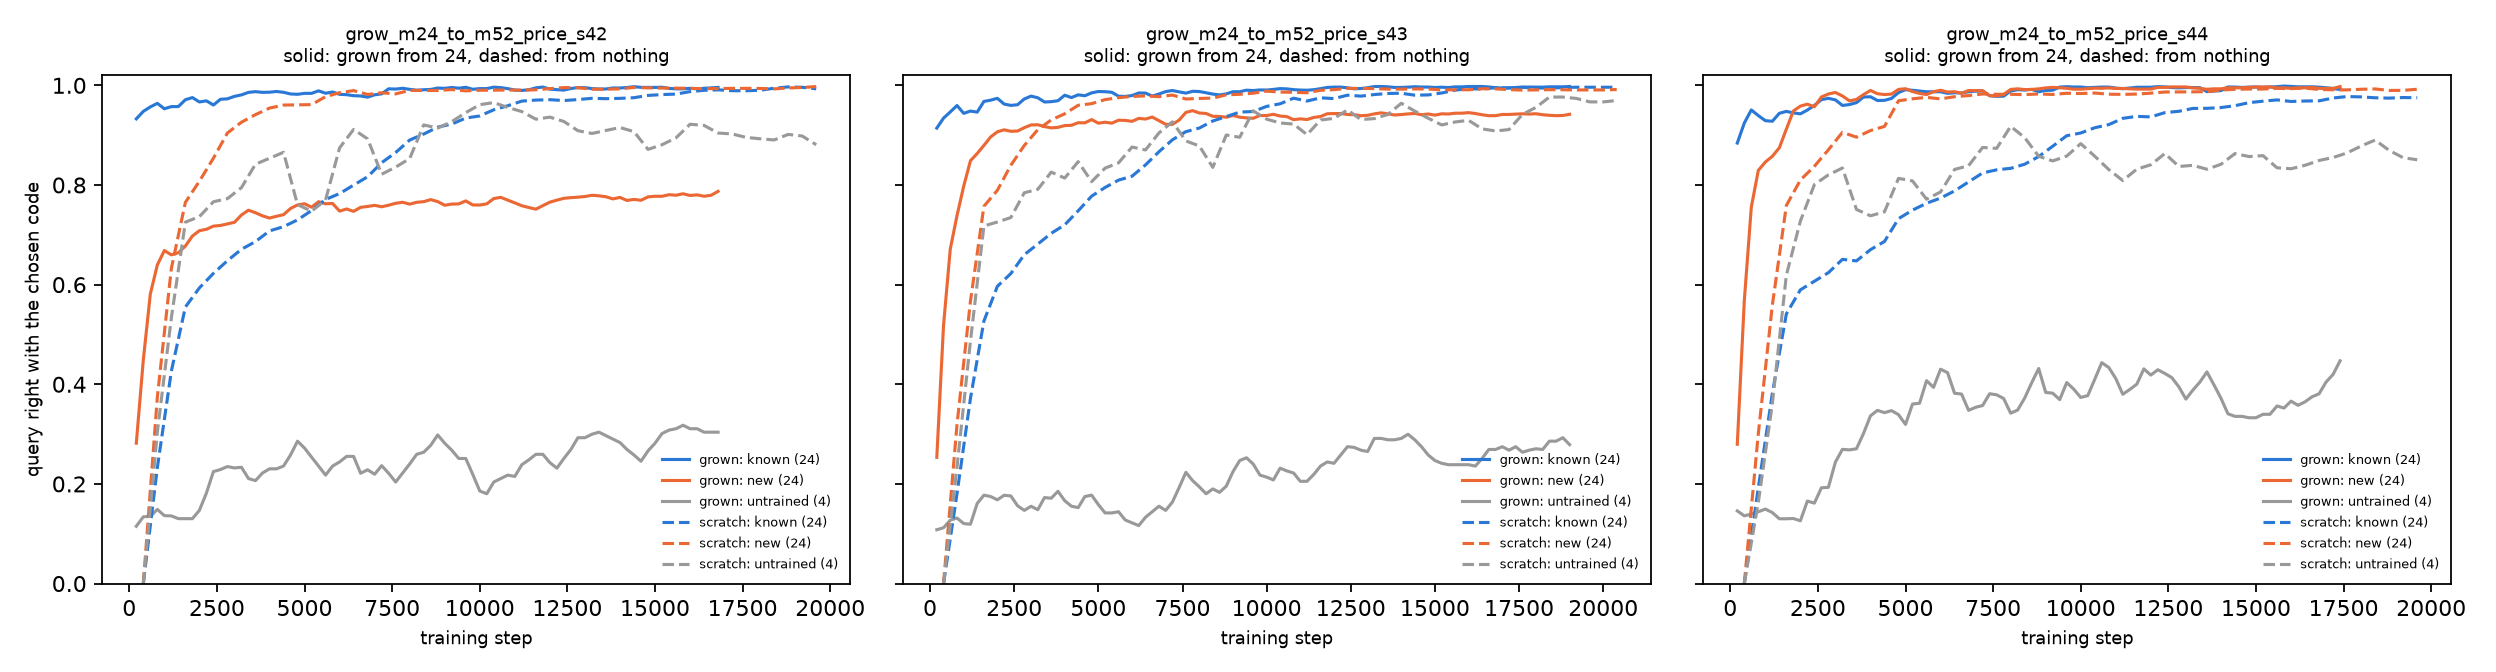
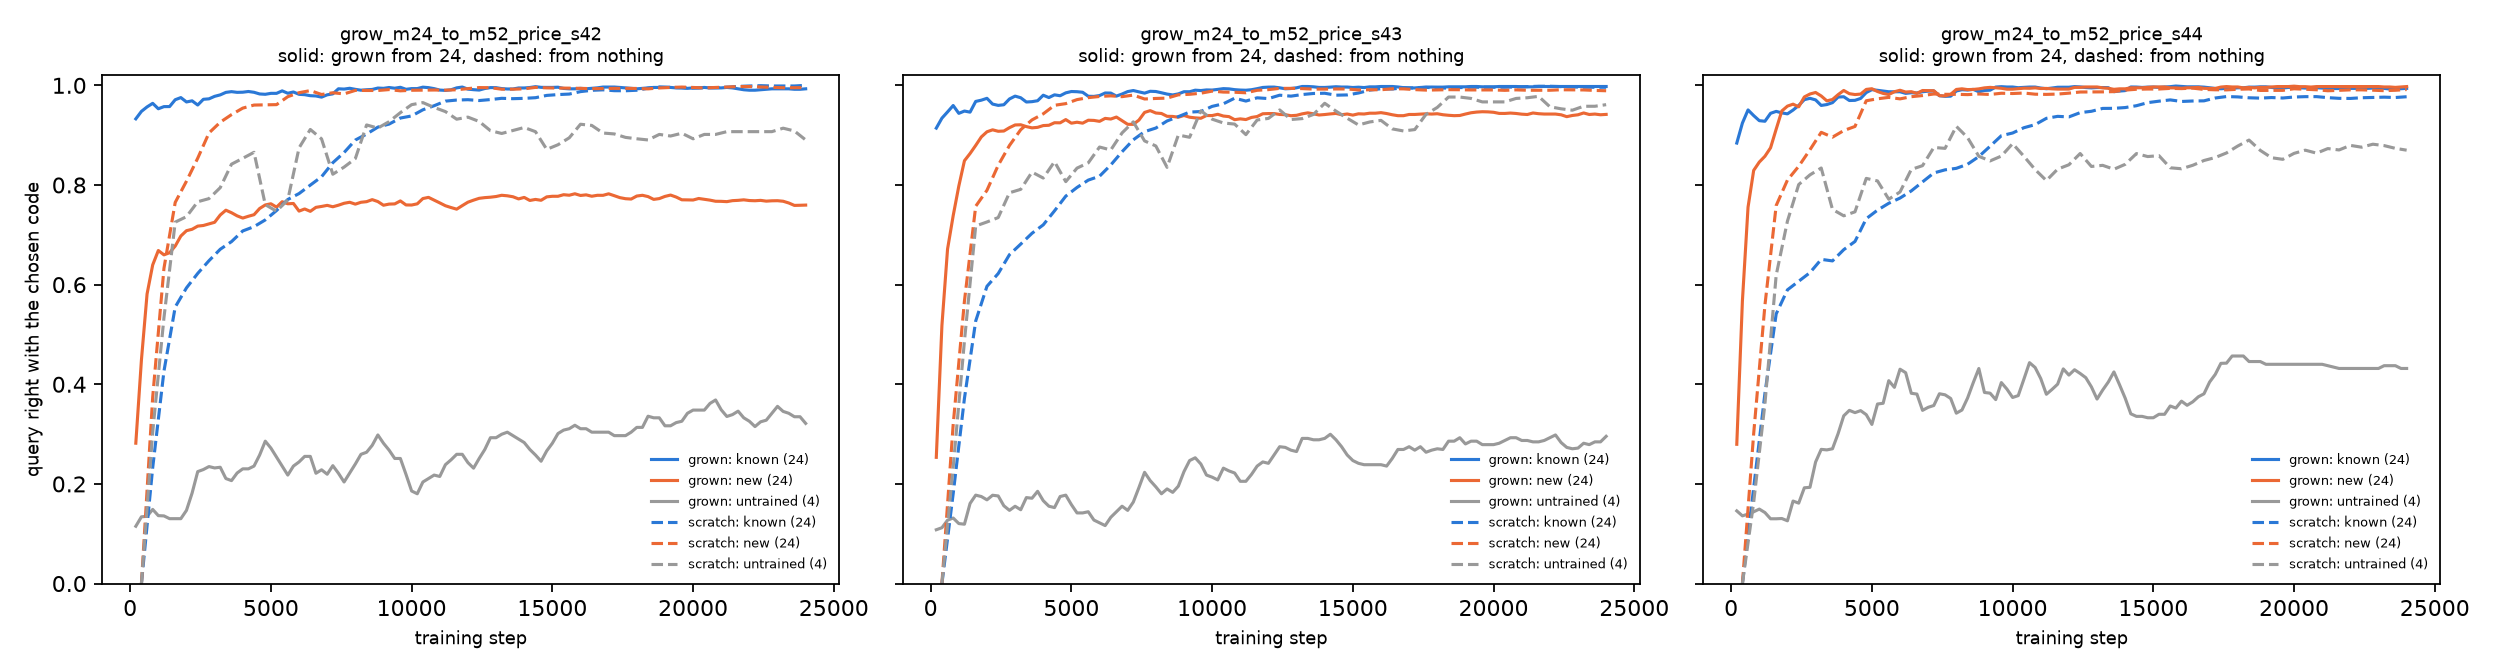
Rounds at three seeds, never-sleeping control, large-world rounds, final growth and price values

diff --git a/docs/reports/2026-11-27-autoresearch.md b/docs/reports/2026-11-27-autoresearch.md
@@ -75,7 +75,7 @@ hard EM은 과제마다 재현 오차가 가장 작은 code 하나를 고르고,
 
 가격을 오래 두는 것은 어려운 seed를 돕지 못했다. 적합도 가격은 두 seed를 모두 올렸지만 좋은 seed의 96%에는 아직 못 미친다. 학습 중간값이고 끝나면 고친다.
 
-환경이 커지면 가격은 더 잘 통했다. 52개 환경에서 기본 가격은 세 seed 모두 넷을 98에서 100%로 갈랐고 나머지도 98에서 99%다. 가격이 없으면 같은 seed가 98%, 26%, 31%다. 24개 환경에서 가격이 실패한 seed 45와 46은 52개 환경에서 돌리지 않았으므로, 큰 환경이라서 풀린 것인지 seed 탓인지는 가르지 못한다.
+환경이 커지면 가격은 더 잘 통했다. 52개 환경에서 기본 가격은 세 seed 모두 넷을 최종 99%, 99%, 98%로 갈랐고 나머지도 98에서 99%다. 가격이 없으면 같은 seed의 최종이 98%, 39%, 38%다. 24개 환경에서 가격이 실패한 seed 45와 46은 52개 환경에서 돌리지 않았으므로, 큰 환경이라서 풀린 것인지 seed 탓인지는 가르지 못한다.
 
 비교로, 계산을 줄이려고 E-step 후보를 16개로 제한한 hard EM도 돌렸다. 한 스텝이 24개 환경에서 2.3배, 64개 환경에서 5.6배 빨라지지만, 세 seed 모두 넷이 36에서 37%로 굳었다. 원래 갈라지던 seed 42까지 굳었다. 죽은 code가 후보에 거의 들지 못해 보너스가 작동하지 않은 것으로 본다. 2.1절의 관찰, 곧 seed 42가 죽은 code의 보너스 덕에 갈라졌다는 것과 맞는다.
 
@@ -107,13 +107,13 @@ hard EM은 과제마다 재현 오차가 가장 작은 code 하나를 고르고,
 | 44, 3,200 | 97%, 98%, 92% | 65%, 92%, 10% |
 | 44, 10,000 | 99%, 99%, 97% | 92%, 99%, 77% |
 
-끝 무렵의 값도 적는다. 이어 배운 run은 21,000에서 23,000스텝, 처음부터 run은 24,000스텝 근처다.
+24,000스텝을 마친 최종값이다.
 
 | seed | 이어 배운 run: 새 24개, 학습에 없는 4칸 이동, 새것이 80%에 닿는 스텝의 중앙값 | 처음부터 run: 같은 셋 |
 |---|---|---|
-| 42 | 79%, 30%, 800스텝 | 100%, 88%, 1,400스텝 |
-| 43 | 94%, 28%, 600스텝 | 99%, 97%, 1,600스텝 |
-| 44 | 100%, 45%, 700스텝 | 99%, 85%, 1,600스텝 |
+| 42 | 76%, 32%, 800스텝 | 100%, 89%, 1,400스텝 |
+| 43 | 94%, 30%, 600스텝 | 99%, 96%, 1,600스텝 |
+| 44 | 100%, 43%, 700스텝 | 99%, 87%, 1,600스텝 |
 
 새것을 배우는 초반 속도는 이어 배운 쪽이 두 배쯤 빠르다. 하지만 끝 성능은 seed 42와 43에서 처음부터 배운 쪽이 높고, 학습에 없던 4칸 이동으로의 일반화는 세 seed 모두 처음부터 배운 쪽이 훨씬 높다. 아래에 그 이유를 적는다.
 
@@ -276,9 +276,40 @@ executor가 함수에 가까워지자 긴 program의 상한도 올랐다. 24개 
 
 기억이 고르는 것의 값은 대조 run으로 쟀다. 52개 환경 학습 파일에서 무작위로 뽑은 과제 435개로 같은 잠을 자면, 1,000스텝에 계산할 수 있는 새것 64%, 새 계산이 필요한 새것 51%다. 기억이 고른 435개로는 81%와 56%였다. 무작위 435개의 절반쯤은 이미 아는 primitive의 과제라 배울 것이 없다. 검증에 실패한 과제만 담는다는 규칙이 같은 과제 수에서 더 많이 배우게 한다.
 
-구간마다 과제가 다르므로, 잠의 몫은 한 번도 자지 않은 모델이 같은 과제를 빠른 기억만으로 받은 값과 견줘야 한다. 그림의 회색 선이다. 과제 801에서 1,600에서 자지 않은 모델은 새 primitive를 평균 62% 맞히고 새 code 91개를 만든다. 한 번 잔 모델은 같은 과제에서 79%에 43개다. 같은 과제에서 잠의 몫이 17점이다. 자지 않아도 기억이 쌓이며 51%에서 62%로 오르기는 하지만, 새 계산이 필요한 개념이 막혀 있어 거기서 멈춘다.
+구간마다 과제가 다르므로, 잠의 몫은 한 번도 자지 않은 모델이 같은 과제를 빠른 기억만으로 받은 값과 견줘야 한다. 그림의 회색 선이다.
 
-같은 바퀴를 seed 42와 44의 모델로, 그리고 큰 물체 세계에서도 돌리고 있다.
+| 과제 구간 | 자지 않은 모델, 새 primitive | 잠을 사이에 넣은 모델 |
+|---|---|---|
+| 1에서 800 | 51% | 51%, 같은 모델 |
+| 801에서 1,600 | 62% | 79% |
+| 1,601에서 2,400 | 63% | 86% |
+
+자지 않아도 기억이 쌓이며 51%에서 62%로 오르기는 한다. 하지만 거기서 멈춘다. 새 계산이 필요한 개념이 막혀 있기 때문이다. 새 code는 331개까지 계속 늘어난다. 같은 과제에서 잠의 몫은 17점과 23점이다.
+
+한 바퀴를 seed 셋으로 확인했다. 24개 환경 가격 모델 seed 42, 43, 44가 같은 흐름을 받고, 기억 code를 codebook 줄로 넣어 한 번 잔 뒤 다음 800개를 받는다.
+
+| seed | 자기 전, 새 primitive | 한 번 잔 뒤 | 새 code, 전과 후 |
+|---|---|---|---|
+| 42 | 57% | 83% | 135개, 49개 |
+| 43 | 51% | 82% | 150개, 43개 |
+| 44 | 43% | 82% | 165개, 56개 |
+| 평균 | 50.5% | 82.4% | 150개, 49개 |
+
+세 seed 평균으로 계산할 수 있는 새것이 65%에서 93%, 새 계산이 필요한 새것이 24%에서 57%, 아는 24개가 99.8%에서 99.7%다. 자기 전 값은 seed마다 14점 벌어지는데 잔 뒤에는 1점 안에 모인다.
+
+### 8.6 큰 물체 세계에서의 같은 바퀴
+
+6절의 큰 물체 세계는 새 primitive가 아니라 물체의 크기 분포가 다른 세계다. 여기서도 같은 규칙을 그대로 돌렸다. 얼린 24개 환경 모델이 큰 물체 과제를 400개씩 받고, 자기 code로 재현되지 않은 과제를 모아 잔다. primitive가 같으므로 codebook은 키우지 않는다. 큰 물체 평가 파일의 한 단계 과제가 1,088개뿐이라 구간을 400개로 잡았다.
+
+| | 큰 물체 과제 | 원래 세계 |
+|---|---|---|
+| 자기 전, 과제 1에서 400 | 48% | |
+| 첫 잠 뒤 모델이 고른 code로, 처음 보는 과제 | 76% | 99% |
+| 한 번 잔 뒤, 과제 401에서 800 | 70% | |
+| 6절의 적응: 무작위 과제 256개와 재생 | 72% | 98% |
+| 6절의 적응: 무작위 과제 1,024개 | 최고 76% | 88% |
+
+첫 깨어 있는 동안 기억에 들어간 과제는 217개다. 이 217개와 원래 세계 재생으로 자면 처음 보는 큰 물체 과제를 76% 맞히고 원래 세계는 99%로 지킨다. 6절에서 무작위 과제 256개로 얻은 72%보다 높고, 1,024개로 얻은 최고값과 같은데 원래 세계는 잃지 않는다. 다시 깨면 다음 400개에서 70%로, 자기 전의 48%에서 22점 오른다. 이 세계에서는 빠른 기억의 새 code가 거의 도움이 되지 않는다. 8.1절에서 본 대로 큰 물체의 실패는 code로 고칠 수 없기 때문이다. 그래도 바퀴는 돈다. 깨어 있는 동안 빠른 기억이 하는 일이 두 가지이기 때문이다. 하나는 그 자리에서 새 code로 답하는 것이고, 다른 하나는 모델이 못 푸는 과제를 골라 잠에 넘기는 것이다. 큰 물체 세계에서는 둘째 일만으로 이득이 난다. 두 번째 바퀴가 돌고 있다.
 
 ## 9. 계산 효율
 

diff --git a/docs/research-log.md b/docs/research-log.md
@@ -357,3 +357,11 @@
 - 19:30 무작위 과제 435개로 잔 대조 run의 최종. 원래 24개 99%, 계산할 수 있는 새것 68%, 새 계산이 필요한 새것 46%, 4칸 이동 18%다. 기억이 고른 435개로 잔 무작위 줄 출발 run은 99%, 81%, 58%, 77%다.
 - 19:35 넷째 깨기가 끝났다. 과제 2,401에서 3,200, 새 primitive 정답률이 구간마다 89, 90, 88, 95, 78, 90, 88, 94%, 전체 89%, 새 code 23개다. 계산할 수 있는 새것 91%, 새 계산이 필요한 새것 85%, 4칸 이동 91%, 아는 것 100%다. 네 구간의 새 primitive 전체가 51%, 79%, 86%, 89%로 오르며 완만해진다.
 - 19:35 같은 바퀴를 큰 물체 세계에서 돌린다. 24개 환경 가격 seed 43 모델이 큰 물체 평가 파일의 한 단계 과제를 400개씩 받는다. 이 파일의 한 단계 과제는 1,088개뿐이라 구간을 400개로 잡았다. 같은 primitive라 codebook은 키우지 않는다. 순서는 runs/queue/cycle_large.sh에 있다.
+- 20:04 자지 않은 모델의 과제 2,400개 흐름이 끝났다. 새 primitive 정답률이 과제 1에서 800 평균 51%, 801에서 1,600 평균 62%, 1,601에서 2,400 평균 63%이고 새 code는 331개까지 늘었다. 잠을 사이에 넣은 모델은 같은 과제에서 51%, 79%, 86%이고 구간마다 새 code 150개, 43개, 25개다. 같은 과제에서 잠의 몫은 17점, 23점이다. 빠른 기억만으로는 60% 초반에서 멈춘다. 이 흐름의 기억 전체로 한 번만 자는 run이 대기열에서 시작한다.
+- 20:04 큰 물체 세계의 첫 깨기. 얼린 가격 seed 43 모델이 과제 400개에서 구간마다 50, 49, 49, 44%를 맞혔고 새 code 125개를 만들었다. 자기 code로 재현되지 않은 과제 217개로 19:50에 잠을 시작했다.
+- 20:05 키우기 세 seed가 24,000스텝을 마쳤다. 이어 배운 run의 새 primitive가 76%, 94%, 100%, 학습에 없는 4칸 이동이 32%, 30%, 43%, 새것이 80%에 닿는 스텝의 중앙값이 800, 600, 700이다. 처음부터 run은 100%, 99%, 99%, 4칸 이동 89%, 96%, 87%, 중앙값 1,400, 1,600, 1,600이다. 원래 24개는 양쪽 모두 98에서 100%다.
+- 20:05 52개 환경의 가격 없는 run 최종값을 전체 평가 기준으로 바로잡는다. 넷이 98%, 39%, 38%다. 앞서 적은 26%, 31%는 학습 중 2,000개 표본 평가의 19,200스텝 값이었다. 가격 있는 run의 최종은 전체 평가로 99%, 99%, 98%다.
+- 20:15 큰 물체 세계의 첫 잠, 1,800스텝. 기억 과제 217개와 원래 세계 재생으로 자고, 흐름을 뺀 큰 물체 평가의 한 단계 과제를 고른 code로 76% 맞힌다. 100스텝에 65%, 500스텝에 71%, 1,000스텝에 75%다. 원래 세계는 99%다. 앞서 무작위 큰 물체 과제 256개와 재생으로 적응했을 때는 72%, 1,024개로는 원래 세계 재생 없이 최고 76%에 원래 세계 88%였다.
+- 20:26 큰 물체 세계의 다시 깨기. 한 번 잔 모델이 다음 과제 400개에서 구간마다 64, 68, 78, 69%를 맞혔다. 자기 전 모델은 앞 400개에서 50, 49, 49, 44%였다. 평균 48%에서 70%다. 두 번의 기억 352개로 둘째 잠을 시작했다.
+- 20:26 가격 변형의 끝 무렵 값. 적합도 가격은 넷이 seed 43 98%, seed 45 67%, seed 46 88%다. seed 45만 24,000스텝이고 나머지는 21,600스텝의 표본 평가다. 기본 가격의 최종은 95%, 51%, 53%, 오래 둔 가격의 최종은 96%, 44%, 44%다. 세 seed 평균이 적합도 가격 84%, 기본 가격 66%, 오래 둔 가격 61%다. seed 45는 12,000스텝부터 64에서 67%에 머문다.
+- 20:35 한 바퀴를 seed 셋으로. 기억 줄로 자는 판, 24개 환경 가격 seed 42, 43, 44. 자기 전 과제 1에서 800의 새 primitive 정답률이 57%, 51%, 43%, 평균 50.5%이고 한 번 잔 뒤 과제 801에서 1,600에서 83%, 82%, 82%, 평균 82.4%다. 계산할 수 있는 새것이 평균 65%에서 93%, 새 계산이 필요한 새것이 24%에서 57%, 4칸 이동이 54%에서 96%, 아는 24개가 99.8%에서 99.7%다. 새 code는 135, 150, 165개에서 49, 43, 56개로 준다. 잠 뒤 모델이 탐색 없이 고른 code로 처음 보는 과제를 맞히는 비율은 원래 24개 99, 98, 100%, 계산할 수 있는 새것 88, 89, 90%, 새 계산이 필요한 새것 60, 64, 54%다. 자기 전 값은 seed마다 14점 벌어지는데 잔 뒤 값은 1점 안에 모인다.

diff --git a/docs/ablations.md b/docs/ablations.md
@@ -23,7 +23,7 @@
 | 초반에 과하게 쓰인 code에 가격을 붙이면 | 2 nats 무게, 3,000스텝 유지 뒤 8,000스텝에 0 | 5 | seed 42에서 46이 96%, 95%, 97%, 51%, 53%, 평균 78%. 가격 없이 96%, 35%, 37%, 83%, 71%, 평균 64% | 99%, 100%, 100%, 99%, 98% | 평균은 오르고 굳던 seed 43, 44는 풀렸지만 seed 45, 46은 오히려 나빠짐. 가격이 executor가 구별하기 전에 사라지는 것이 원인으로 보여 가격을 16,000스텝까지 두는 형태를 시험 중 | 11-27 |
 | 가격을 pair 하나 학습에 쓰면 | 같은 가격, pair 하나짜리 학습 데이터 | 3 | 29%, 28%, 13% | 67%, 64%, 65% | 가격 없이 pair 하나와 같음. 입력별 전문가 code를 막지 못함. 두 pair 학습을 쓰기로 함 | 11-27 |
 | 학습 pair의 물체가 먼저 무작위 primitive를 0에서 4개 거치게 하면 | 가격 방식, 학습 state 넓히기 | 3 | 95%, 93%, 97% | 100%, 100%, 100% | 같은 seed의 가격 run과 같은 수준. executor 일반화는 별도 측정 | 11-27 |
-| 52개 환경에서 가격 | 같은 가격 | 3 | 19,200스텝에 100%, 100%, 97%. 같은 스텝 가격 없이 98%, 26%, 31% | 99%, 99%, 97% | 세 seed 모두 풀림. 24개 환경에서 실패한 seed 45, 46은 돌리지 않아 환경이 커져서 풀린 것인지는 모름 | 11-27 |
+| 52개 환경에서 가격 | 같은 가격 | 3 | 최종 99%, 99%, 98%. 가격 없이 최종 98%, 39%, 38% | 99%, 99%, 98% | 세 seed 모두 풀림. 24개 환경에서 실패한 seed 45, 46은 돌리지 않아 환경이 커져서 풀린 것인지는 모름 | 11-27 |
 | 가격을 더 오래 두면 | 8,000스텝까지 유지 뒤 16,000스텝에 0 | 3 | 9,600스텝에 seed 43 92%, 45 36%, 46 40%. 같은 스텝 기존 가격 45 41%, 46 51% | 96%에서 100% | 어려운 seed를 돕지 못함. 진행 중 | 11-27 |
 | 가격을 재현 적합도로 거두면 | code가 이긴 과제를 두 pair 모두 재현하는 비율의 이동 평균을 1에서 빼 가격에 곱함, 시간표 없음 | 3 | 9,600스텝에 seed 43 96%, 45 65%, 46 67%. 같은 스텝 기존 가격 45 41%, 46 51%, 기존 가격의 끝 58%, 57% | 97%에서 99% | 어려운 seed를 앞당김. 진행 중 | 11-27 |
 
@@ -153,13 +153,13 @@ primitive마다 가장 자주 그 primitive를 재현한 code를 정답 code로 
 
 새 primitive가 90%에 닿는 데 1.6배 빠르고 3,200스텝에 같아진다. 학습 데이터에 없는 4칸 이동은 처음부터 run이 translate_up을 칸 수별 code로 나눠 풀고, 이어 배운 run은 자기 높이만큼 이동이라는 원래 개념으로 묶어 틀린다.
 
-세 seed의 끝 무렵 값이다. 이어 배운 run은 17,000에서 19,000스텝, 처음부터 run은 19,600에서 20,400스텝이다. 새 primitive가 80%에 닿는 스텝의 중앙값도 적는다.
+세 seed의 24,000스텝 최종값이다. 새 primitive가 80%에 닿는 스텝의 중앙값도 적는다.
 
 | seed | 이어 배운 run: 원래 24개, 새 24개, 학습에 없는 4칸 이동, 80% 도달 중앙값 | 처음부터 run: 같은 넷 |
 |---|---|---|
-| 42 | 100%, 79%, 30%, 800스텝 | 99%, 100%, 88%, 1,400스텝 |
-| 43 | 100%, 94%, 28%, 600스텝 | 100%, 99%, 97%, 1,600스텝 |
-| 44 | 99%, 100%, 45%, 700스텝 | 98%, 99%, 85%, 1,600스텝 |
+| 42 | 99%, 76%, 32%, 800스텝 | 100%, 100%, 89%, 1,400스텝 |
+| 43 | 100%, 94%, 30%, 600스텝 | 100%, 99%, 96%, 1,600스텝 |
+| 44 | 99%, 100%, 43%, 700스텝 | 98%, 99%, 87%, 1,600스텝 |
 
 이어 배우면 새 primitive를 두 배쯤 빨리 배우지만, 끝 성능은 seed 42와 43에서 낮고 학습에 없던 4칸 이동으로의 일반화는 세 seed 모두 낮다. 처음 배운 개념의 경계가 새 환경의 개념을 나누는 방식을 묶는다.
 
